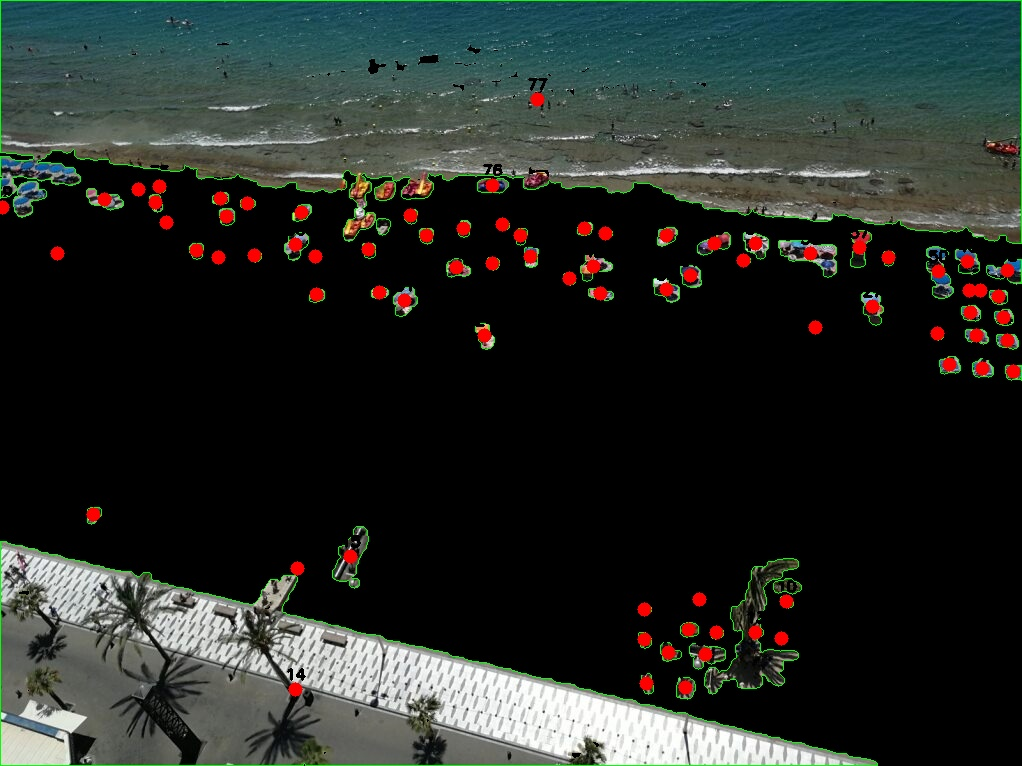
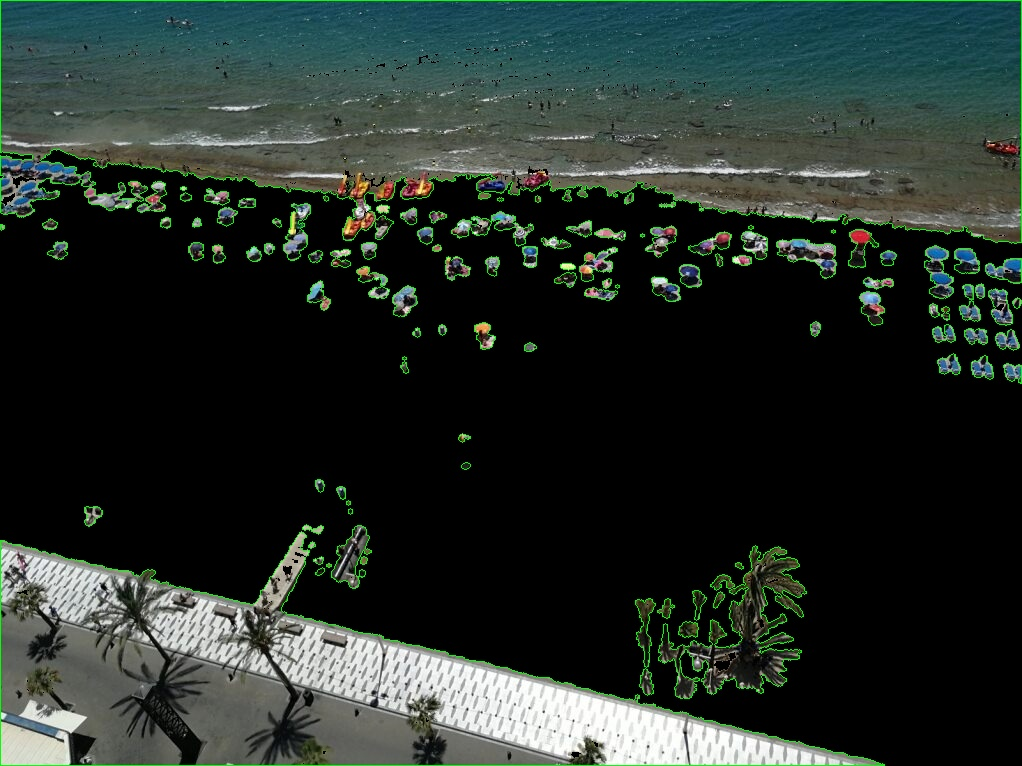
Update .py and results without the centroid detectiom

diff --git a/substract_no_centroid.py b/substract_no_centroid.py
@@ -1,0 +1,72 @@
+import cv2
+import numpy as np
+from tkinter import filedialog
+import tkinter as tk
+
+#To get de color ranges of each image each image has lower numpy array and upper numpy array
+def get_color_ranges(file):
+    color_ranges = {
+        'sin_palmeras.jpg': (np.array([16, 12, 105]), np.array([30, 68, 245])),
+        'aerea_full.jpg': (np.array([6, 15, 221]), np.array([179, 255, 255])),
+        'prueba.png': (np.array([9, 14, 163]), np.array([84, 51, 255])),
+        'captura_benidorm_1.JPG': (np.array([12, 31, 114]), np.array([82, 61, 223])),
+        'partially_seg_SAM.jpg': (np.array([0, 158, 139]), np.array([179, 255, 255])),
+        '1_beni.jpg': (np.array([14, 14, 137]), np.array([21, 108, 220])),
+        '2_beni.jpg': (np.array([14, 40, 120]), np.array([24, 86, 215])),
+        '3_beni.jpg': (np.array([11, 42, 117]), np.array([92, 93, 200])),
+    }
+    return color_ranges.get(file, (None, None))
+def main():
+    # Read image
+    file = '3_beni.jpg'
+    img = cv2.imread(file)
+    img= cv2.cvtColor(img, cv2.COLOR_BGR2HSV)
+    hh, ww = img.shape[:2]
+
+    # Rangos de color para cada imagen
+    lower, upper = get_color_ranges(file)
+    if lower is None or upper is None:
+        print("Rangos de color no definidos para la imagen")
+        return
+
+    ##### NO IMPROVES WITH GAUSSIAN BLUR
+    # img = cv2.GaussianBlur(img, (5, 5), 0)
+    # cv2.imshow('gaussian', img)
+
+    # Create mask to only select none and
+    thresh = cv2.inRange(img, lower, upper)
+
+    # apply morphology
+    size = 5     # can change this value depends the image
+    kernel = cv2.getStructuringElement(cv2.MORPH_ELLIPSE, (size,size),anchor=(size//2,size//2))
+    morph = cv2.morphologyEx(thresh, cv2.MORPH_CLOSE, kernel, iterations=1)
+
+
+    # invert morp image
+    mask = 255 - morph
+
+    # apply mask to image
+    result = cv2.bitwise_and(img, img, mask=mask)
+
+    # hsv to bgr
+    result = cv2.cvtColor(result, cv2.COLOR_HSV2BGR)
+
+    #draw contours
+    thick_countours = 1
+    contours, hierarchy = cv2.findContours(mask, cv2.RETR_EXTERNAL, cv2.CHAIN_APPROX_NONE)  ## External better than tree for this case because we only want the external contour
+    cv2.drawContours(result, contours, -1, (0,255,0), thick_countours)
+
+    cv2.imwrite('beach_thresh.jpg', thresh)
+    cv2.imwrite('beach_morph.jpg', morph)
+    cv2.imwrite('beach_mask.jpg', mask)
+    cv2.imwrite('beach_result.jpg', result)
+
+    cv2.imshow('thresh', thresh)
+    cv2.imshow('morph', morph)
+    cv2.imshow('mask', mask)
+    cv2.imshow('result', result)
+    cv2.waitKey(0)
+    cv2.destroyAllWindows()
+
+if __name__ == '__main__':
+    main()   

diff --git a/README.md b/README.md
@@ -30,6 +30,10 @@ Para poder detectar los nucleos de la playa se ha realizado un proceso de elimin
 
 Para realizar este proceso se ha utilizado el siguiente script:
 
+``` substract_no_centroid.py ```
+
+Además se ha realizado otro script en el cual de los contornos detectados se calcula el centroide de cada uno para poder calcular las distancias entre ellos de esa forma poder identificar los grupos de personas que se encuentran en la playa. Este script es el siguiente:
+
 ``` substract.py ```
 ## Pruebas con red neuronal SAM(Segment Anything Model)
 Se han realizado pruebas de segmentación con la SAM ya que este modelo nos permite realizar una segmentación de la imagen sin un entrenamiento previo de lo que, queremos detectar en la imagen. Ya que el modelo es de gran tamaño se han realizado las pruebas en google colab, para ello se ha utilizado el siguiente script:
@@ -40,6 +44,8 @@ Se han realizado pruebas de segmentación con la SAM ya que este modelo nos perm
 
 ### Imagenes 
 Se encuentran diversas carpetas con los resultados pero los mas relevantes son los que se encuentra en la carpeta ``` Results_benidorm_images ``` donde se encuentran los resultados de la detección de nucleos de las imagenes de la playa. Especificando el tamaño de la elipse utilizada para la apertura y cierre.
+
+También se encuentran las imagenes sin el calculo de los centroides en la carpeta ``` Results_benidorm_images_without_centroids ```.
 
 ### Coordenadas de cada nucleo
 
